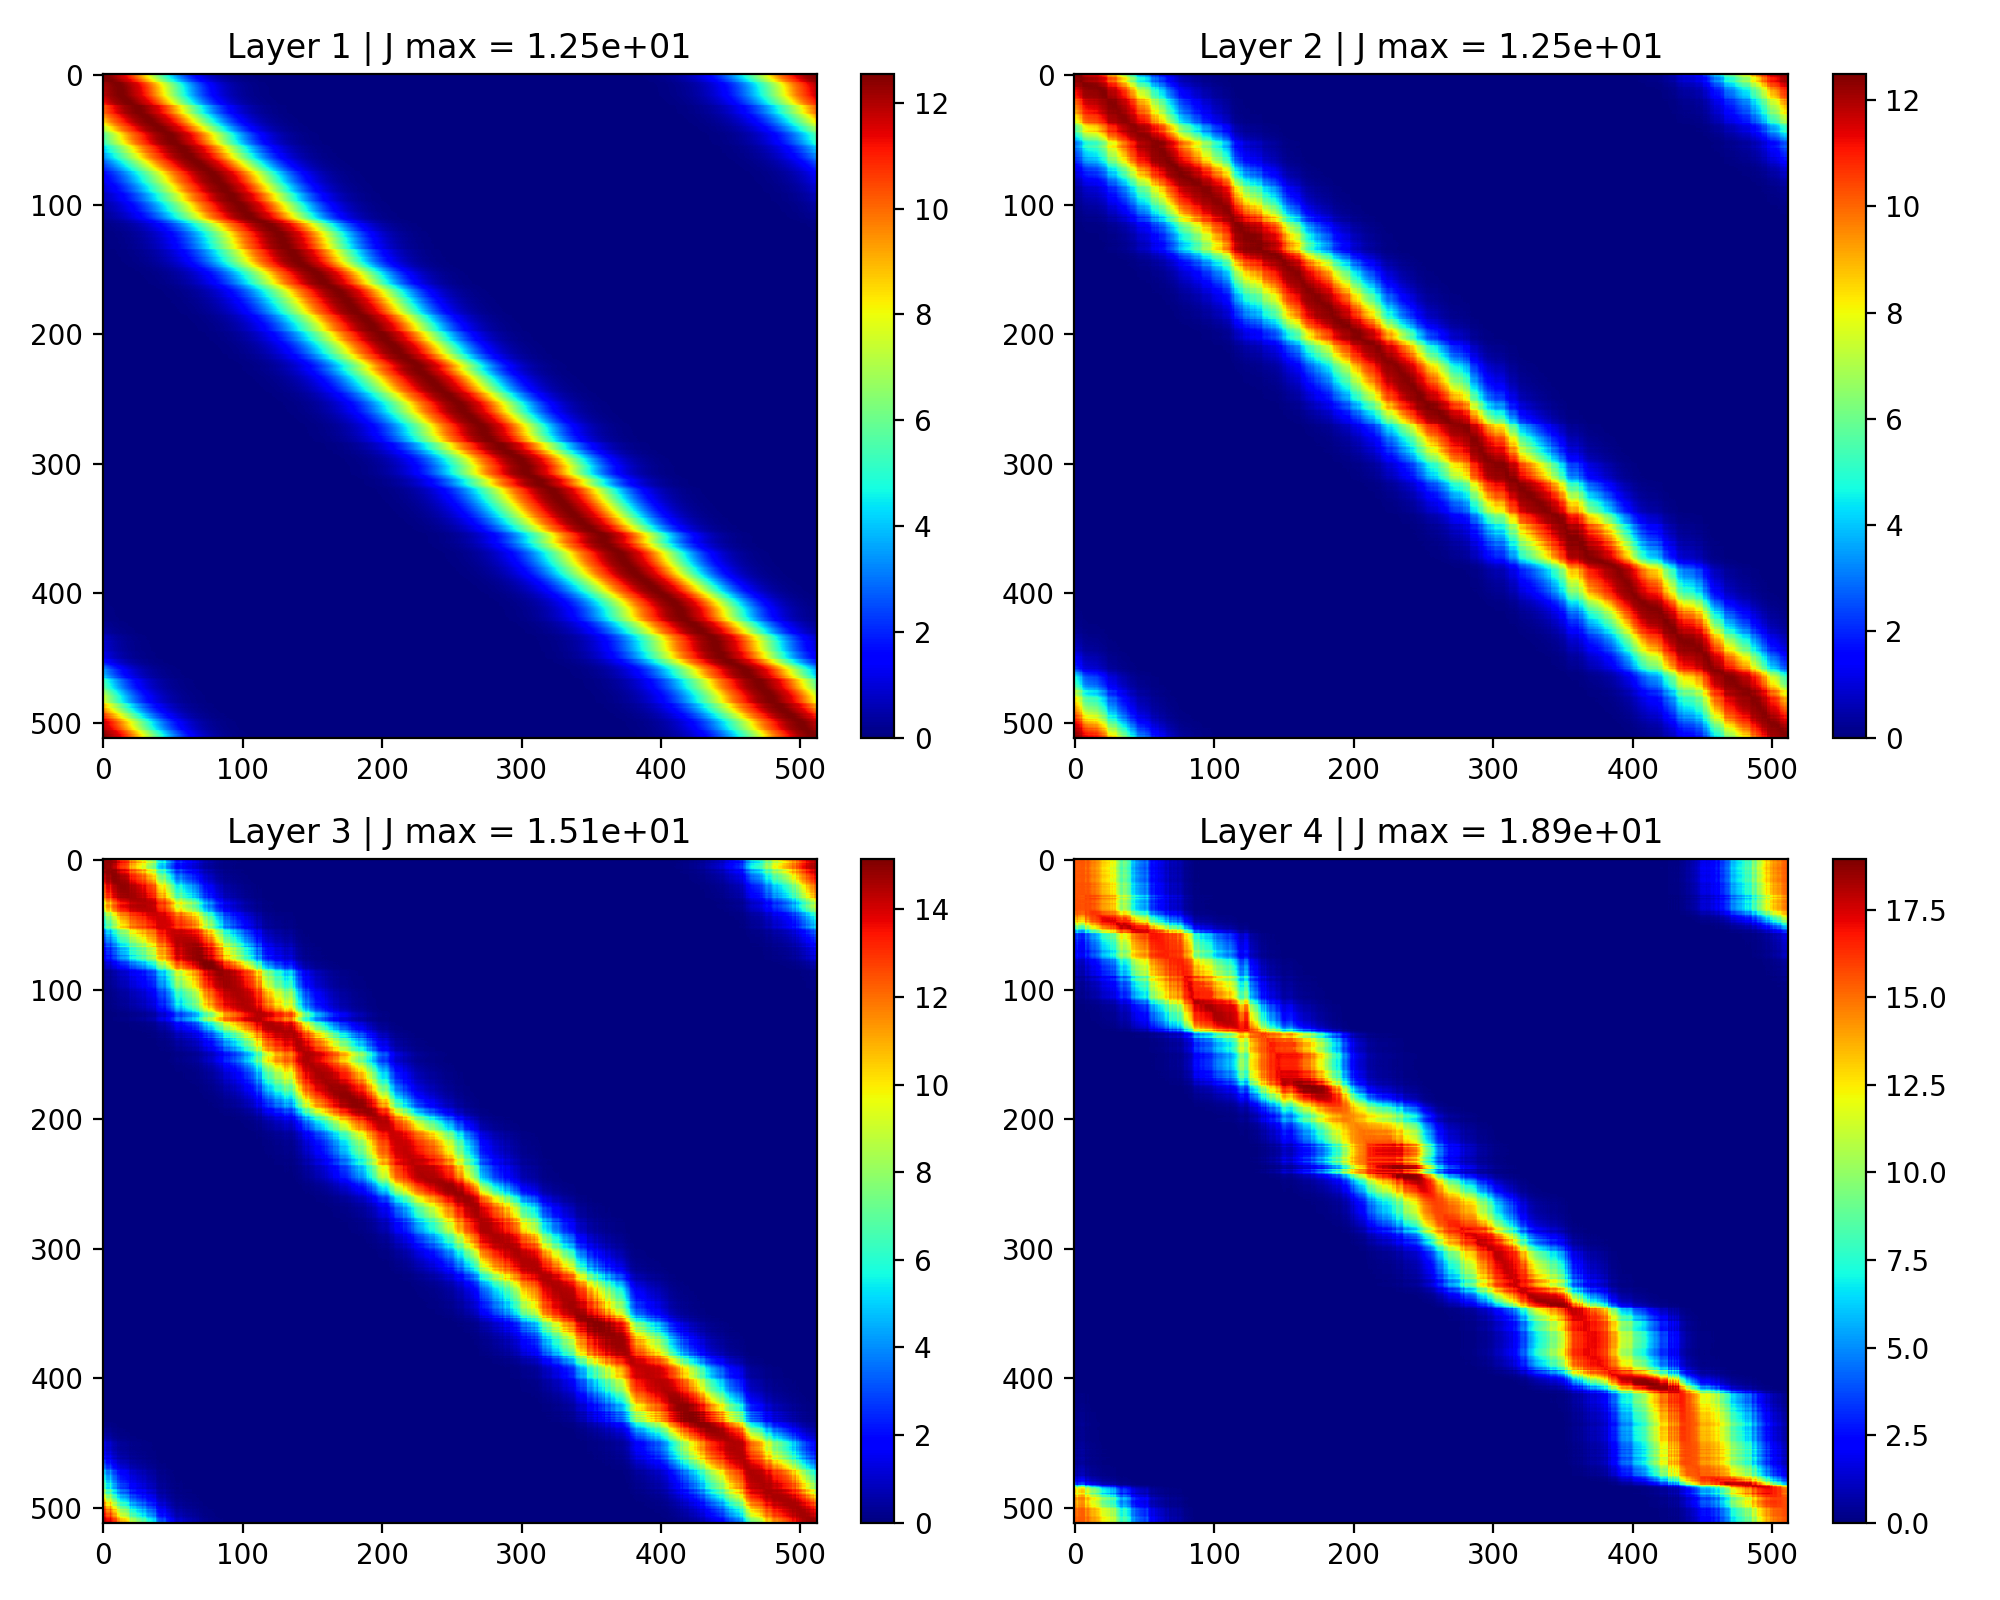
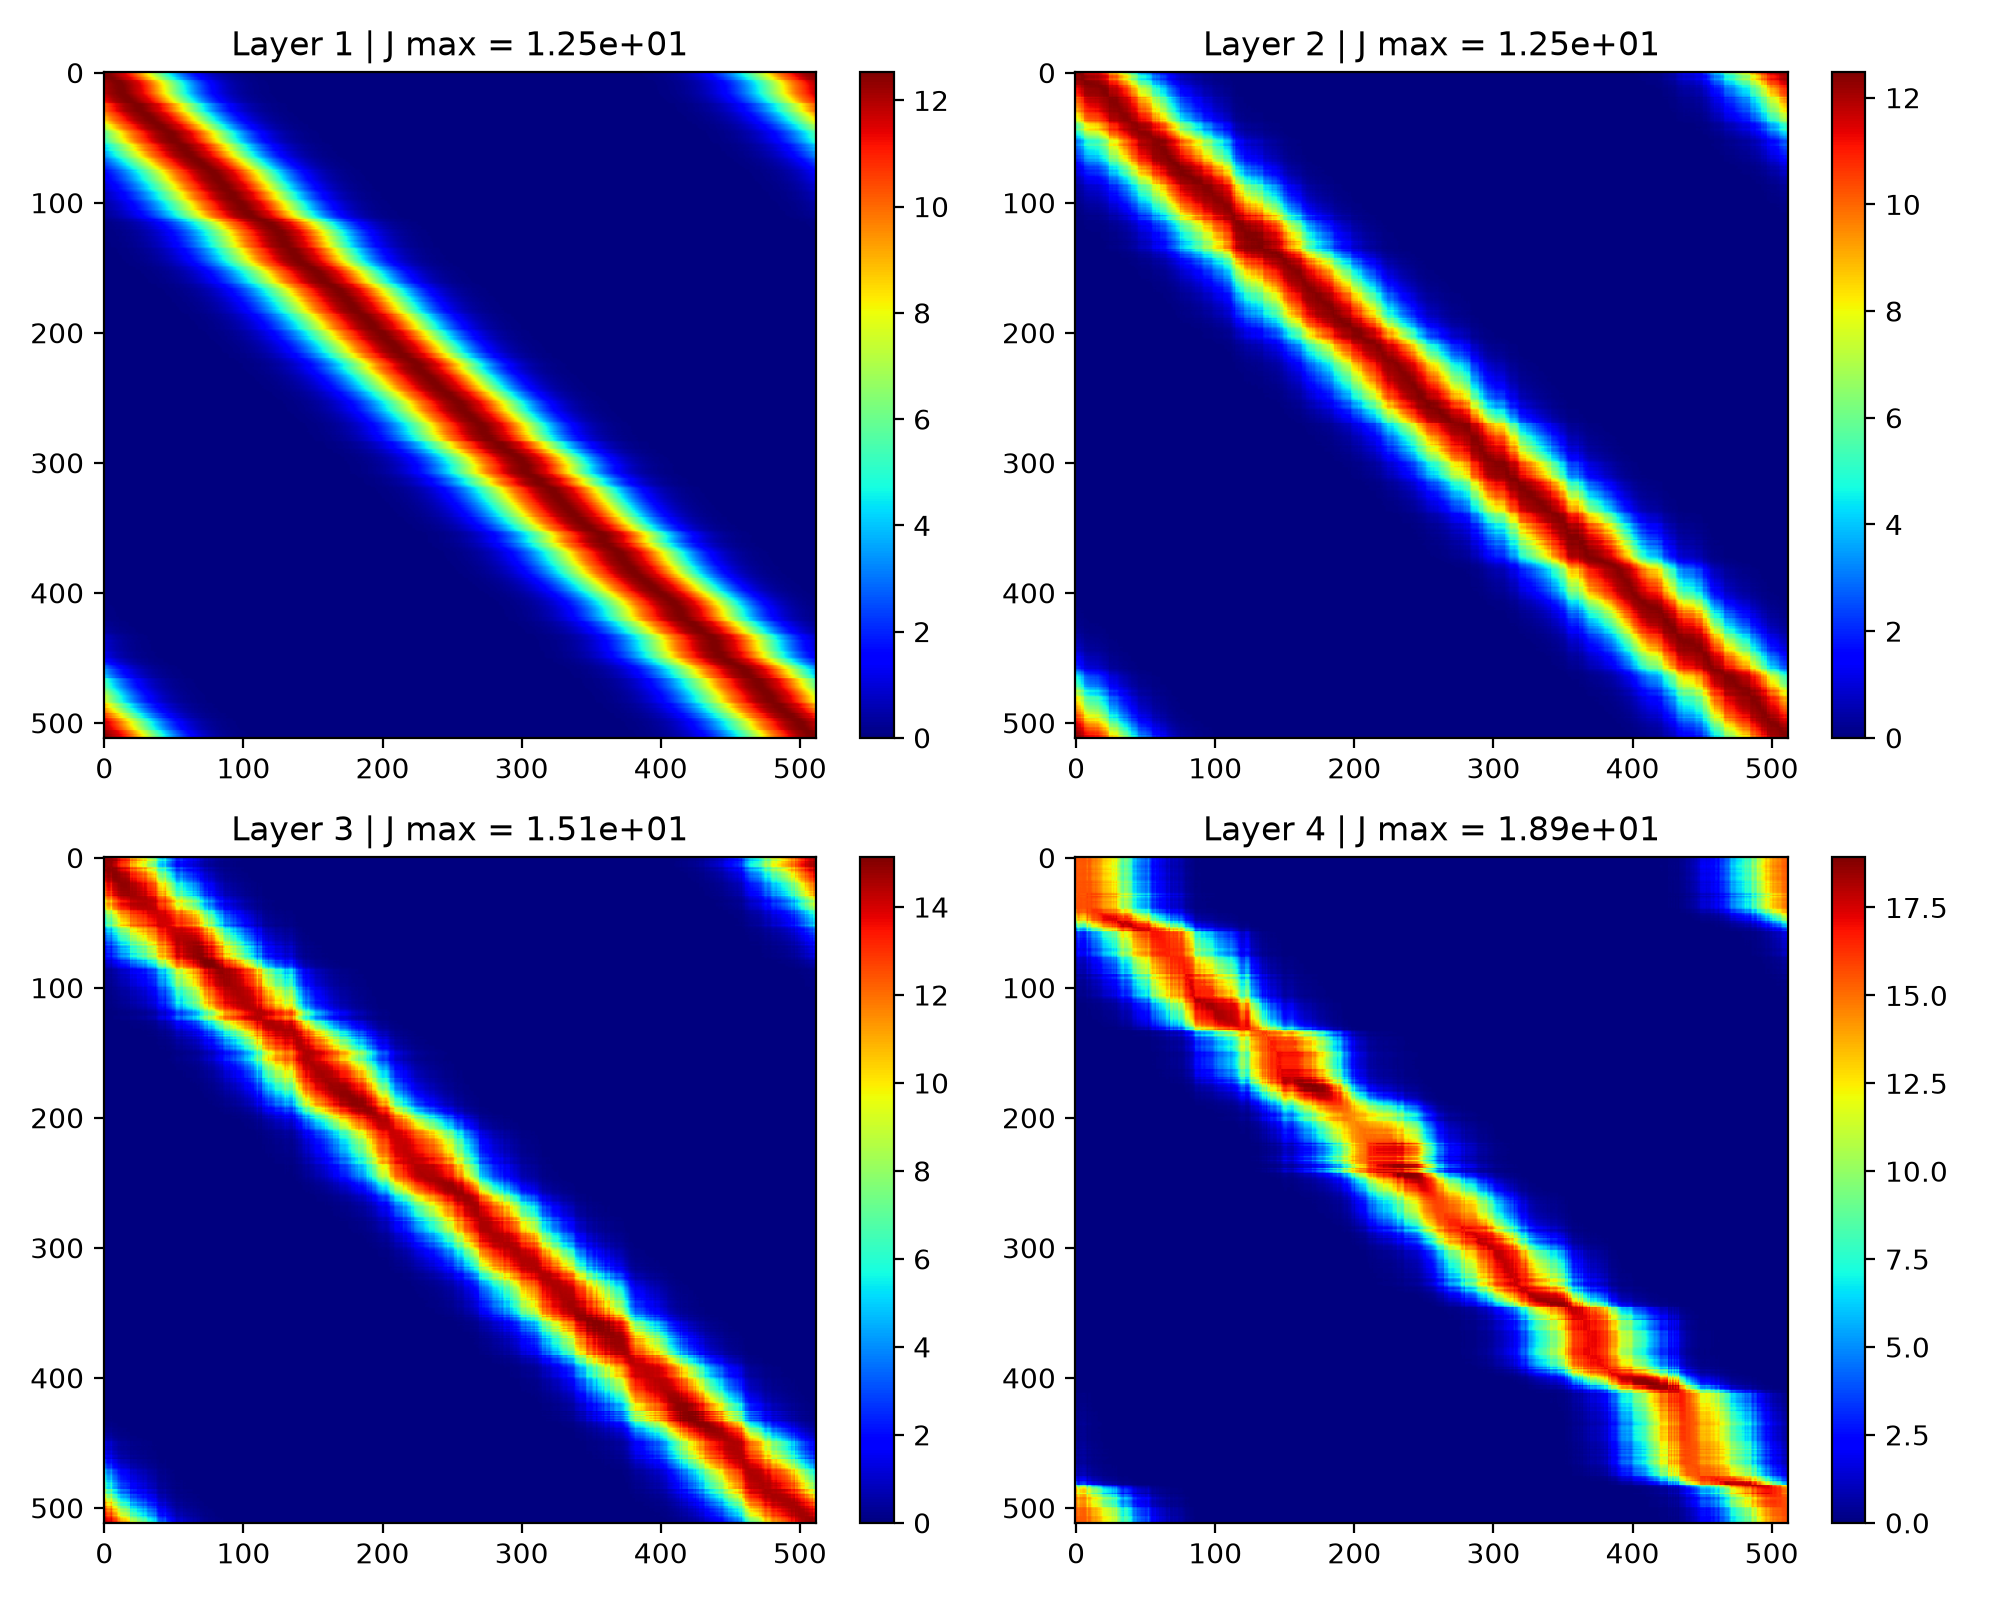
changes

diff --git a/scripts/figure4-learning_multilayer_network.py b/scripts/figure4-learning_multilayer_network.py
@@ -61,8 +61,8 @@ def main():
     args = parse_args()
 
     # 1. Locate Run Directory
-    repo_root = Path(__file__).resolve().parent.parent
-    base_data_dir = repo_root.parent / "figure4-learning-multilayer-ff-data"
+    repo_root = Path(__file__).resolve().parent
+    base_data_dir = repo_root.parent / "data" / "figure4-learning-multilayer-ff-data"
 
     if args.run_dir is not None:
         run_dir = Path(args.run_dir)
